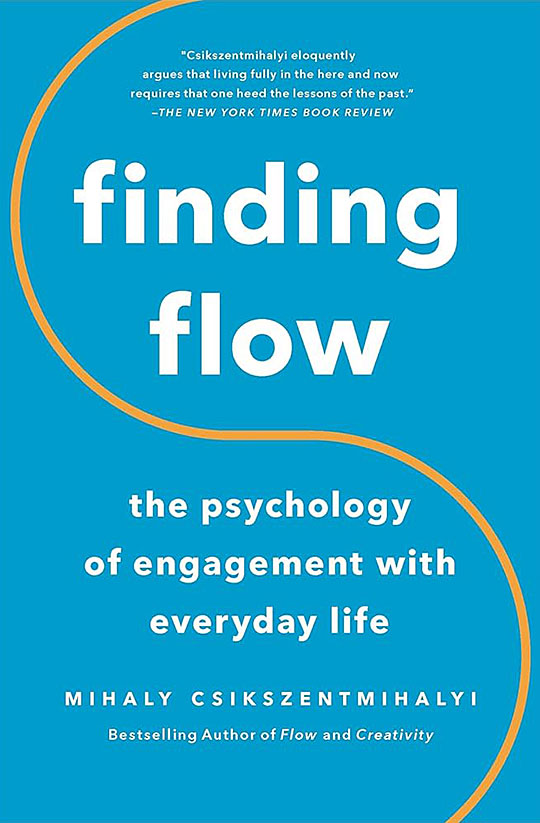
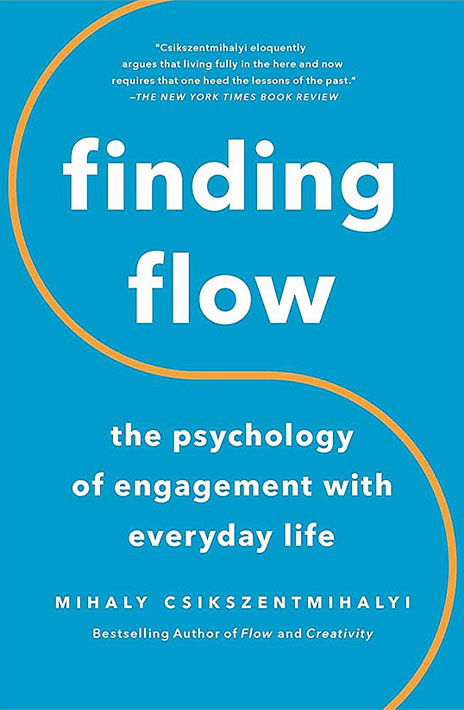
Publish new books and compress images

diff --git a/_posts/2026-01-01-joyful-beginnings-with-ruby.md b/_posts/2026-01-01-joyful-beginnings-with-ruby.md
@@ -1,0 +1,5 @@
+---
+layout: post
+tags: programming
+title: Joyful Beginnings with Ruby
+---
